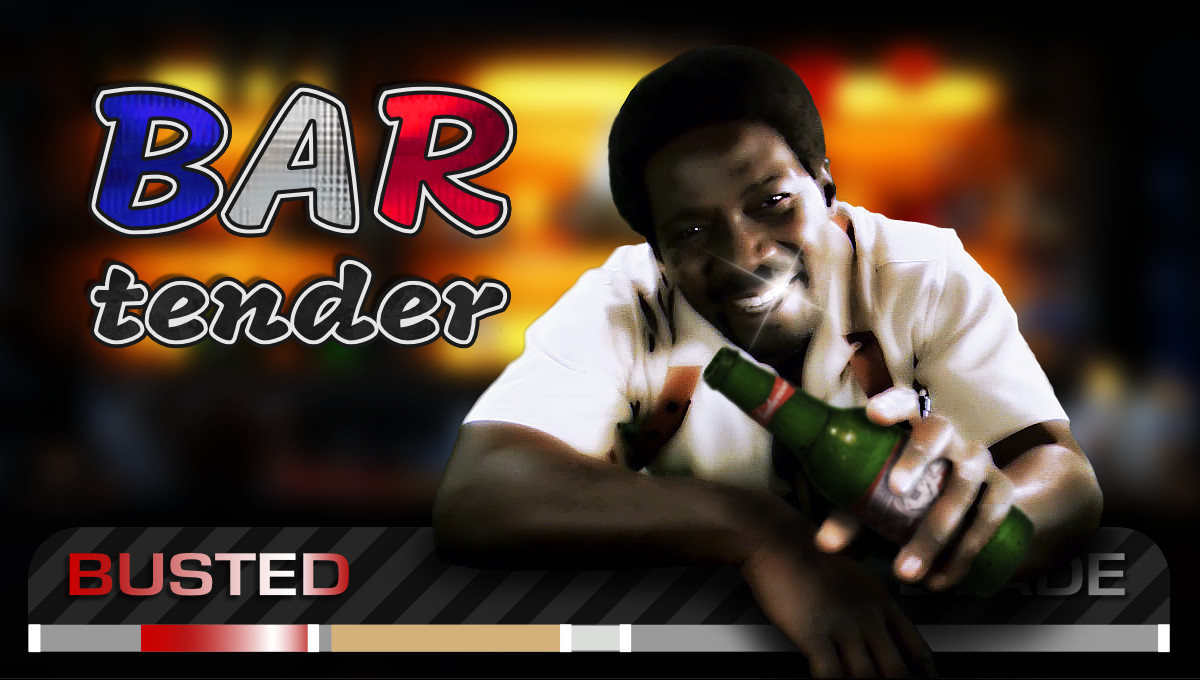
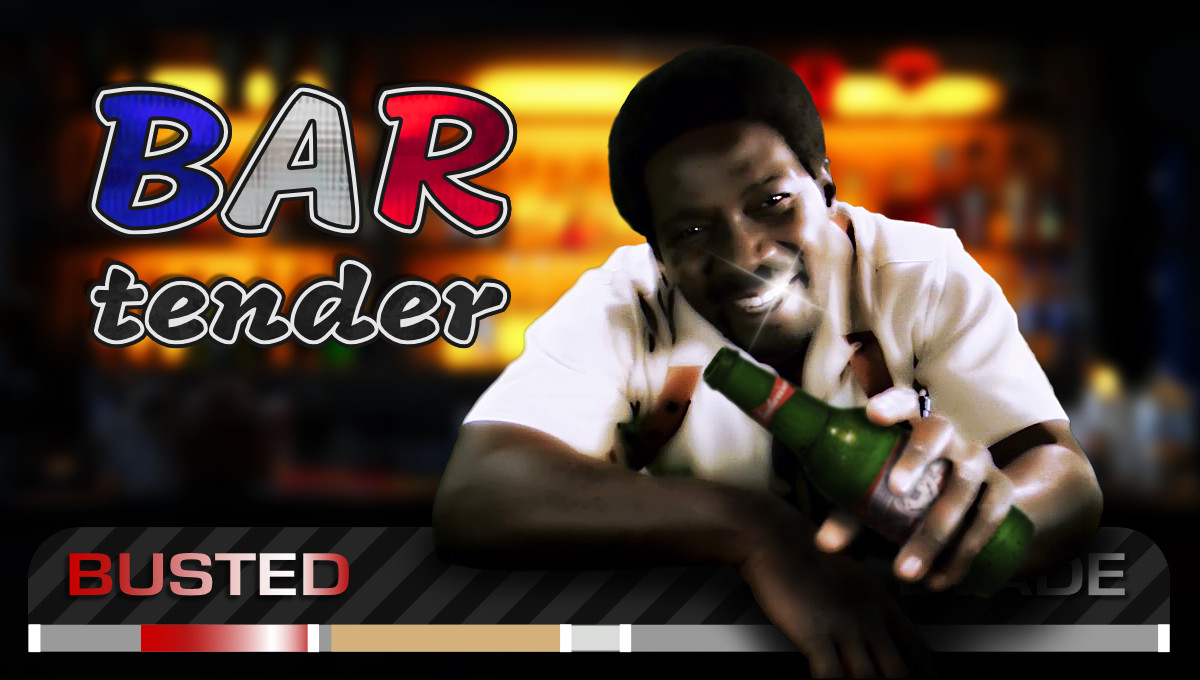
Updated thumbnail, some inline assembly, and documentation.

diff --git a/NFSMWBartender/StateObserver.h b/NFSMWBartender/StateObserver.h
@@ -46,7 +46,7 @@ namespace StateObserver
 			PursuitObserver ::SetToHeat(playerIsRacing, currentHeatLevel);
 		}
 		else if constexpr (Globals::loggingEnabled)
-			Globals::logger.Log("WARNING: [STA] Invalid Heat level", (int)currentHeatLevel);
+			Globals::logger.Log("WARNING: [STA] Invalid Heat level", (int)currentHeatLevel, (playerIsRacing) ? "(race)" : "(free-roam)");
 	}
 
 
@@ -118,20 +118,20 @@ namespace StateObserver
 	constexpr address heatLevelObserverEntrance = 0x4090BE;
 	constexpr address heatLevelObserverExit     = 0x4090C6;
 
-	// Active when loading into areas or during pursuits
+	// Triggers when loading into areas or during pursuits
 	__declspec(naked) void HeatLevelObserver()
 	{
 		__asm
 		{
 			cmp ebp, dword ptr currentHeatLevel
-			je conclusion // Heat is unchanged
+			je conclusion // Heat unchanged
 
 			mov eax, dword ptr playerVehicle
 
 			test eax, eax
 			je conclusion // player vehicle unknown
 
-			cmp eax, esi
+			cmp esi, eax
 			jne conclusion // not player vehicle
 
 			mov eax, dword ptr [esp + 0x20]
@@ -167,7 +167,7 @@ namespace StateObserver
 	constexpr address gameStartObserverEntrance = 0x570620;
 	constexpr address gameStartObserverExit     = 0x570626;
 
-	// Active when entering the main menu screen
+	// Triggers when entering the main menu screen
 	__declspec(naked) void GameStartObserver()
 	{
 		static bool gameStartHandled = false;
@@ -198,7 +198,7 @@ namespace StateObserver
 	constexpr address worldLoadObserverEntrance = 0x66296C;
 	constexpr address worldLoadObserverExit     = 0x662971;
 
-	// Active during world loading screens
+	// Triggers during world loading screens
 	__declspec(naked) void WorldLoadObserver()
 	{
 		__asm
@@ -223,7 +223,7 @@ namespace StateObserver
 	constexpr address gameplayObserverEntrance = 0x71D09D;
 	constexpr address gameplayObserverExit     = 0x71D0A5;
 
-	// Constantly active during gameplay, but not excessively so
+	// Triggers during gameplay, but not every frame
 	__declspec(naked) void GameplayObserver()
 	{
 		__asm
@@ -244,7 +244,7 @@ namespace StateObserver
 	constexpr address retryObserverEntrance = 0x6F4768;
 	constexpr address retryObserverExit     = 0x6F476D;
 
-	// Active during event / race resets
+	// Triggers on event / race resets
 	__declspec(naked) void RetryObserver()
 	{
 		__asm
@@ -267,21 +267,21 @@ namespace StateObserver
 	constexpr address heatEqualiserEntrance = 0x409084;
 	constexpr address heatEqualiserExit     = 0x40908A;
 
-	// Non-player drivers have the same heat as the player
+	// Non-player drivers have the same Heat as the player
 	__declspec(naked) void HeatEqualiser()
 	{
 		__asm
 		{
-			mov ebx, dword ptr playerVehicle
+			mov edi, dword ptr playerVehicle
 
-			test ebx, ebx
+			test edi, edi
 			je conclusion // player vehicle unknown
 
-			cmp esi, ebx
+			cmp esi, edi
 			je conclusion // is player vehicle
 
-			mov edx, dword ptr [ebx + 0x1C] // player Heat
-			mov dword ptr [esp + 0x24], edx
+			mov edi, dword ptr [edi + 0x1C] // player Heat
+			mov dword ptr [esp + 0x24], edi
 
 			conclusion:
 			// Execute original code and resume

diff --git a/NFSMWBartender/CopSpawnOverrides.h b/NFSMWBartender/CopSpawnOverrides.h
@@ -251,24 +251,9 @@ namespace CopSpawnOverrides
 		}
 
 
-		address GetFromPursuitNode
-		(
-			const vault  attributeKey,
-			const size_t attributeIndex = 0
-		) 
-			const
-		{
-			static const auto GetPursuitNode      = (address (__thiscall*)(address))               0x418E90;
-			static const auto GetPursuitAttribute = (address (__thiscall*)(address, vault, size_t))0x454810;
-
-			const address node = GetPursuitNode(this->pursuit);
-			return (node) ? GetPursuitAttribute(node, attributeKey, attributeIndex) : node;
-		}
-
-
 		void UpdateNumPatrolCars()
 		{
-			const address attribute = this->GetFromPursuitNode(0x24F7A1BC); // fetches "NumPatrolCars"
+			const address attribute = PursuitFeatures::GetFromPursuitlevel(this->pursuit, 0x24F7A1BC); // fetches "NumPatrolCars"
 
 			this->maxNumPatrolCars = (attribute) ? *((int*)attribute) : 0;
 

diff --git a/NFSMWBartender/PursuitFeatures.h b/NFSMWBartender/PursuitFeatures.h
@@ -32,6 +32,21 @@ namespace PursuitFeatures
 
 	// Auxiliary functions --------------------------------------------------------------------------------------------------------------------------
 
+	address GetFromPursuitlevel
+	(
+		const address pursuit,
+		const vault   attributeKey,
+		const size_t  attributeIndex = 0
+	) {
+		static const auto GetPursuitNode      = (address (__thiscall*)(address))               0x418E90;
+		static const auto GetPursuitAttribute = (address (__thiscall*)(address, vault, size_t))0x454810;
+
+		const address node = GetPursuitNode(pursuit);
+		return (node) ? GetPursuitAttribute(node, attributeKey, attributeIndex) : node;
+	}
+
+
+
 	bool MakeVehicleBail(const address copVehicle)
 	{
 		static const auto StartFlee    = (void (__thiscall*)(address))0x423370;

diff --git a/README.md b/README.md
@@ -37,7 +37,7 @@ The "Basic" feature set **lets you change** (per Heat level)
 * the internal cooldown between Heavy / LeaderStrategy requests,
 * when exactly (if at all) and below what distance roadblock vehicles can join pursuits,
 * whether roadblock vehicles react to racers entering "COOLDOWN" mode and / or hitting spikes,
-* how HeavyStrategy 3 requests interact with roadblock requests and spawns,
+* whether HeavyStrategy 3 requests interact with roadblock requests and spawns,
 * which vehicles spawn in place of the ramming SUVs through HeavyStrategy 3,
 * which vehicles spawn in place of the roadblock SUVs through HeavyStrategy 4, and
 * which vehicles spawn in place of Cross and his henchmen through LeaderStrategy 5 / 7.
@@ -57,7 +57,7 @@ The "Basic" feature set **fixes six bugs / issues**:
 * the game is no longer inadvertently biased in how it chooses to make Strategy requests,
 * Heat levels > 5 are no longer reset back to 5 when you enter free-roam or start an event,
 * Heat levels > 5 are now shown correctly in menus (requires [Binary](https://github.com/SpeedReflect/Binary/releases) for missing textures), and
-* racers can no longer get busted due to line-of-sight issues while the green "EVADE" bar fills.
+* you can no longer get busted due to line-of-sight issues while the green "EVADE" bar fills.
 
 &nbsp;
 
